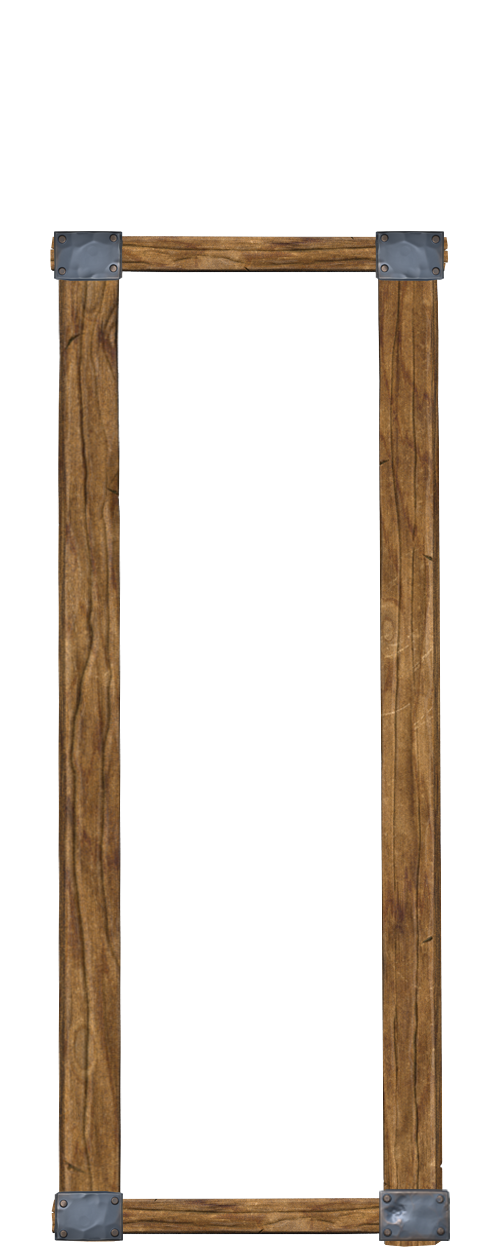
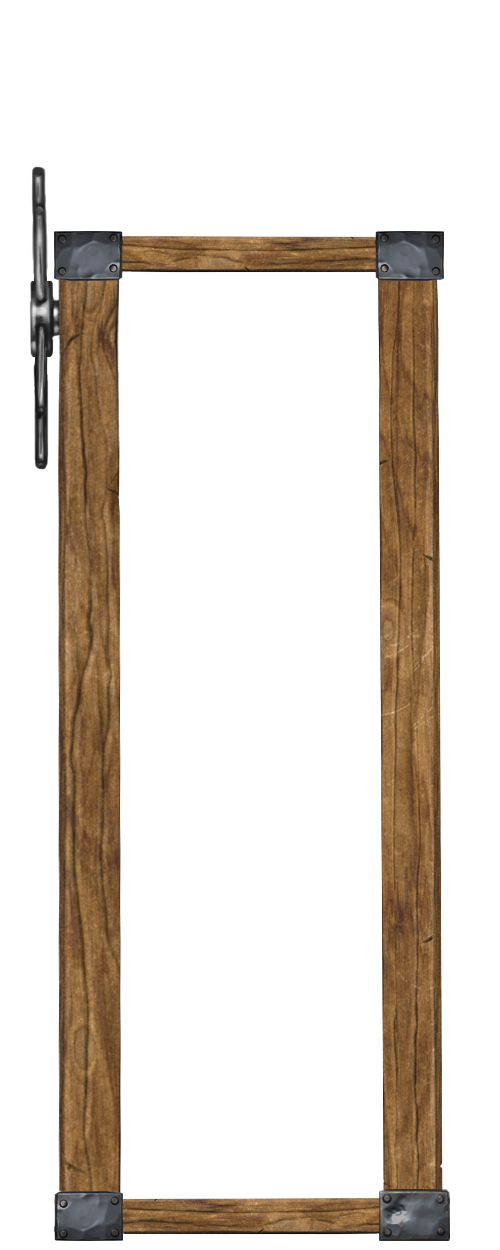
Uploaded all the needed assets. Mainly done

diff --git a/BondageClub/Assets/Female3DCG/Female3DCG.js b/BondageClub/Assets/Female3DCG/Female3DCG.js
@@ -6019,7 +6019,7 @@ var AssetFemale3DCG = [
 				]
 			},
 			{
-				Name: "WoodenRack", Value: 0, Priority: 1, Dificulty: 20, Selfbondage: 2, Random: false, RemoveAtLogin: true, DefaultColor: [], Extended: true, AlwaysExtend: true, BuyGroup: "WoodenRack", Effect: ["Freeze", "Mounted", "OnBed", "Leash"], Prerequisite: ["AllFours", "NotSuspended", "NotHogtied"],
+				Name: "WoodenRack", Value: 0, Priority: 1, Dificulty: 20, Selfbondage: 2, Random: false, RemoveAtLogin: true, DefaultColor: ["#372D24", "#BB895D", "Default"], Extended: true, AlwaysExtend: true, BuyGroup: "WoodenRack", Effect: ["Freeze", "Mounted", "OnBed", "Leash"], Prerequisite: ["AllFours", "NotSuspended", "NotHogtied"],
 				SetPose: ["BaseLower"],
 				Block: ["ItemAddon"],
 				Layer: [
@@ -6028,14 +6028,15 @@ var AssetFemale3DCG = [
 					{ Name: "BackBreaker", HasType: false, AllowColorize: false, AllowModuleTypes: ["f2"] },
 					{ Name: "Frame", HasType: false, AllowColorize: false },
 					{ Name: "FrameStains", HasType: false, AllowModuleTypes: ["s1"] },
-					{ Name: "TopRopes", HasType: false, AllowModuleTypes: ["t1"], ParentGroup: "BodyUpper", Priority: 50 },
-					{ Name: "TopRopesTight", HasType: false, CopyLayerColor: "Ropes", AllowModuleTypes: ["t2"], ParentGroup: "BodyUpper", Priority: 50 },
+					{ Name: "TopRopes", HasType: false, AllowModuleTypes: ["t1"], Priority: 50 },
+					{ Name: "TopRopesTight", HasType: false, CopyLayerColor: "TopRopes", AllowModuleTypes: ["t2"], Priority: 50 },
 					{ Name: "TopChains", HasType: false, AllowModuleTypes: ["t3"],Priority: 30 },
-					{ Name: "TopChainsTight", HasType: false, CopyLayerColor: "Chains",AllowModuleTypes: ["t4"], Priority: 30 },
-					{ Name: "BotRopes", HasType: false, CopyLayerColor: "Ropes",AllowModuleTypes: ["b1"], ParentGroup: "BodyLower", Priority: 50 },
-					{ Name: "BotRopesTogether", HasType: false, CopyLayerColor: "Ropes",AllowModuleTypes: ["b2"], ParentGroup: "BodyLower", Priority: 50 },
-					{ Name: "BotChains", HasType: false, CopyLayerColor: "Chains", AllowModuleTypes: ["b3"]},
-					{ Name: "BotChainsTogether", HasType: false, CopyLayerColor: "Chains", AllowModuleTypes: ["b4"]},
+					{ Name: "TopChainsTight", HasType: false, CopyLayerColor: "TopChains",AllowModuleTypes: ["t4"], Priority: 30 },
+					{ Name: "BotRings", HasType: false, CopyLayerColor: "TopChains",AllowModuleTypes: ["b1", "b2"]},
+					{ Name: "BotRopes", HasType: false, CopyLayerColor: "TopRopes",AllowModuleTypes: ["b1"], Priority: 50 },
+					{ Name: "BotRopesTogether", HasType: false, CopyLayerColor: "TopRopes",AllowModuleTypes: ["b2"], Priority: 50 },
+					{ Name: "BotChains", HasType: false, CopyLayerColor: "TopChains", AllowModuleTypes: ["b3"]},
+					{ Name: "BotChainsTogether", HasType: false, CopyLayerColor: "TopChains", AllowModuleTypes: ["b4"]},
 					{ Name: "BotStocksBack", HasType: false, AllowColorize: false, AllowModuleTypes: ["b5"] },
 					{ Name: "BotStocks", HasType: false, AllowColorize: false, AllowModuleTypes: ["b5"], Priority: 50 },
 				]

diff --git a/BondageClub/Assets/Female3DCG/Female3DCGExtended.js b/BondageClub/Assets/Female3DCG/Female3DCGExtended.js
@@ -2525,8 +2525,8 @@ var AssetFemale3DCGExtended = {
 							Name: "Frame", Key: "f",
 							Options: [
 								{}, // f0 - Normal
-								{}, // f1 - NoBack
-								{}, // f2 - BackBreaker
+								{}, // f1 - HalfBack
+								{}, // f2 - NoBack
 							],
 					},	
 					{
@@ -2574,6 +2574,13 @@ var AssetFemale3DCGExtended = {
 										Effect: ["Prone", "Freeze", "Block", "BlockKneel", "Mounted"],
 									},
 								}, // t4 - ChainsTight
+							],
+					},
+					{
+							Name: "FrameStains", Key: "s",
+							Options: [
+							{}, // s0 - No
+							{}, // s1 - Stains
 							],
 					},
 					{
